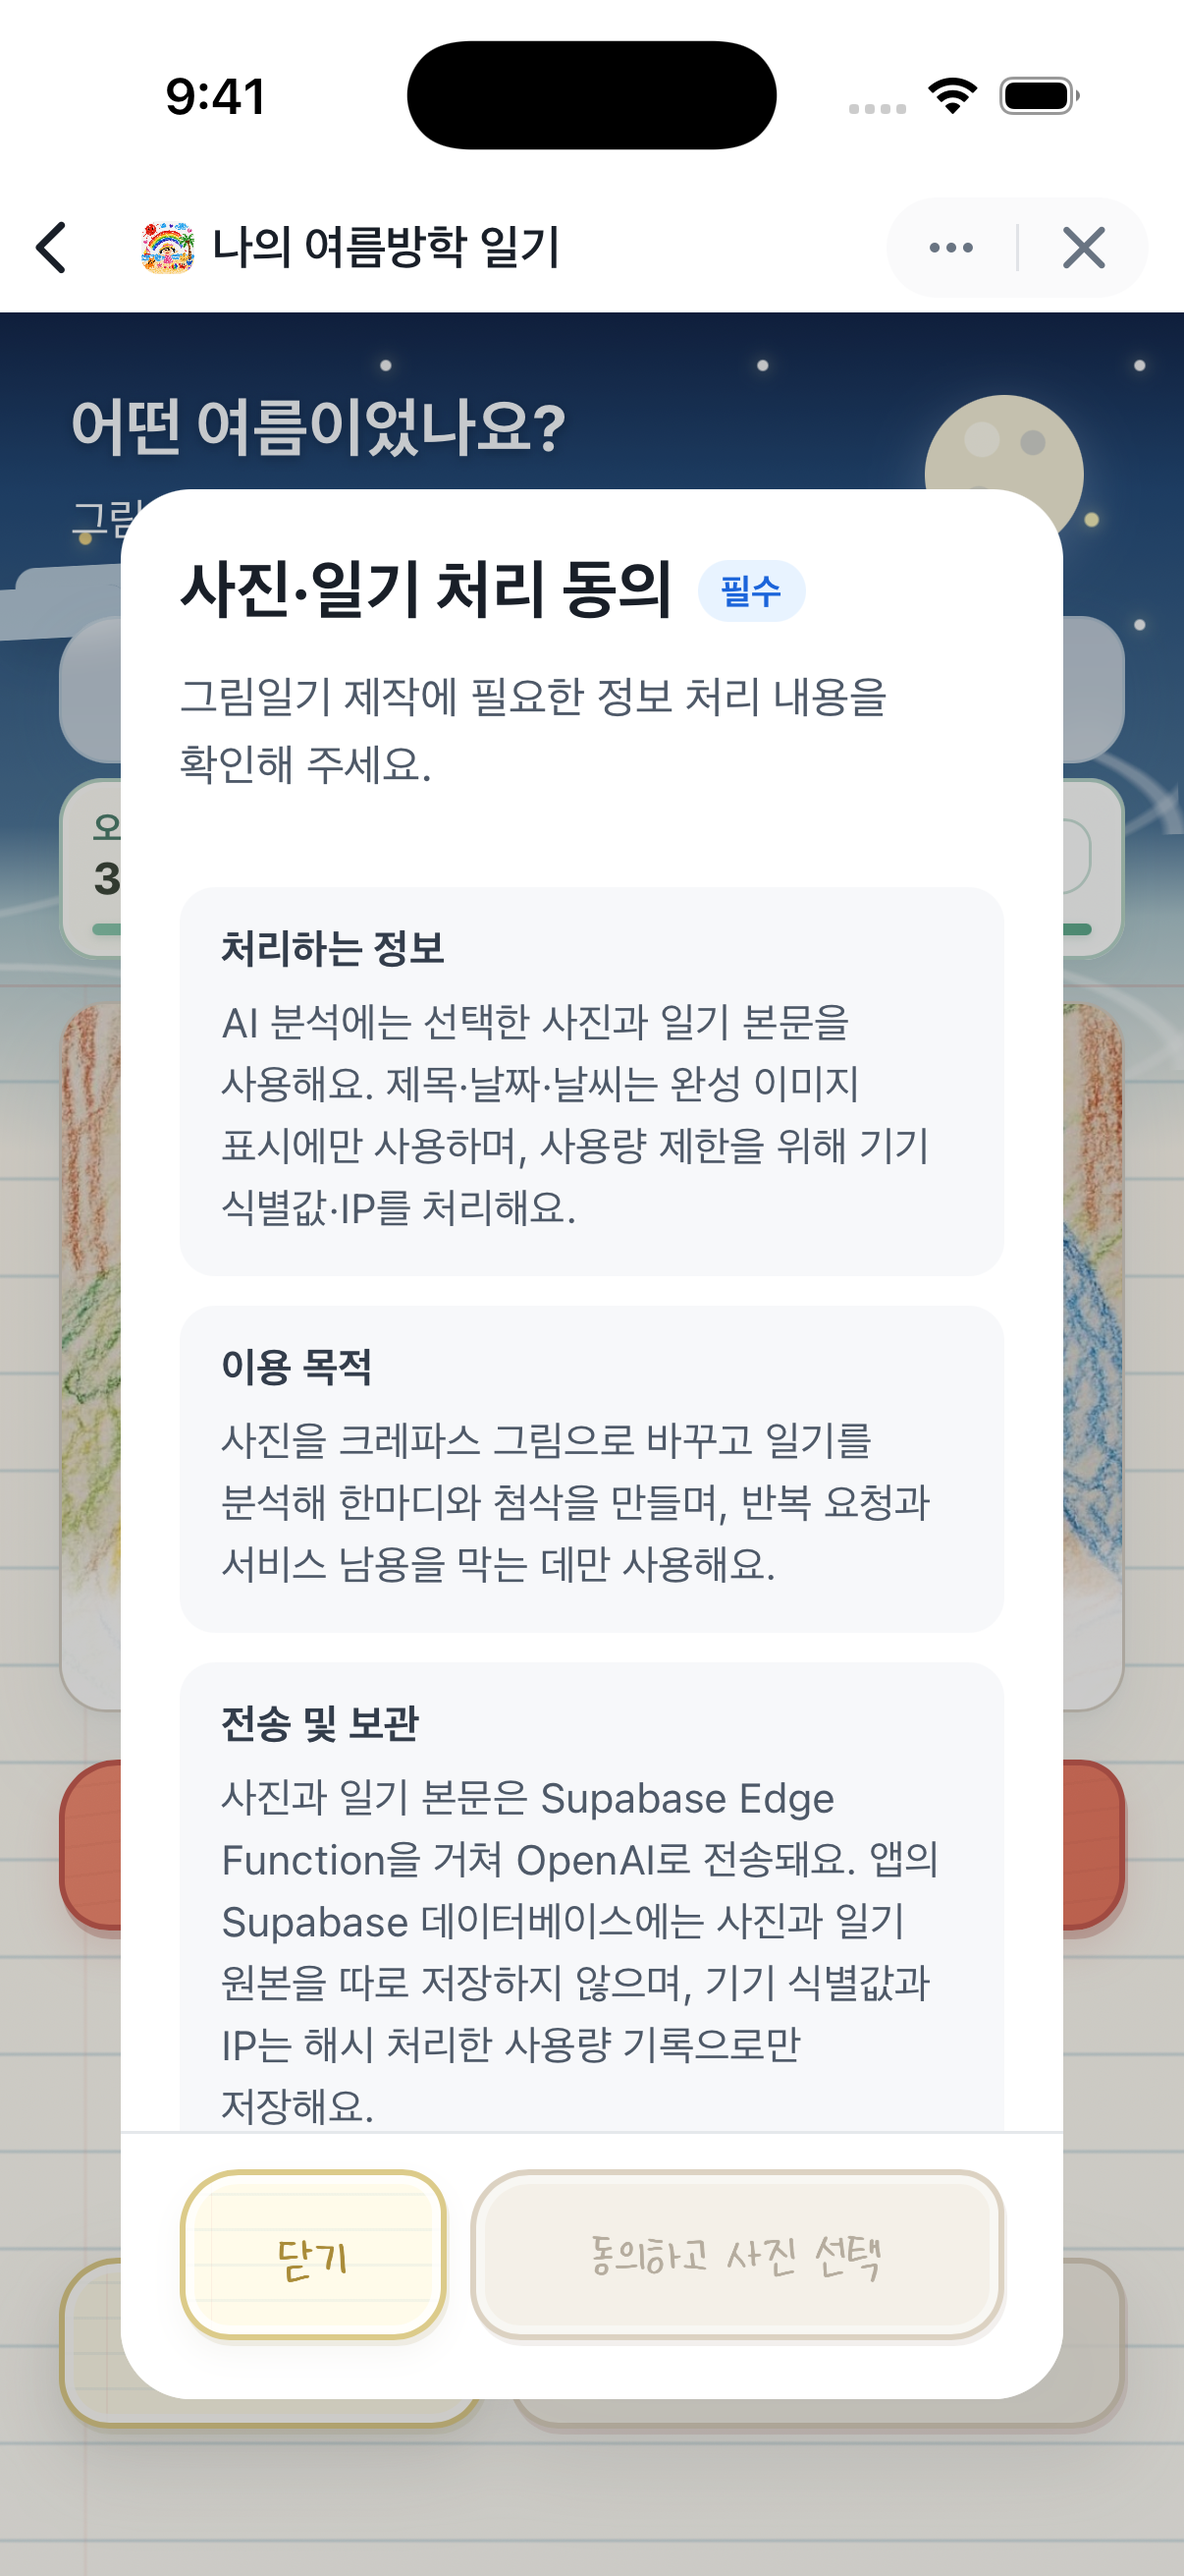
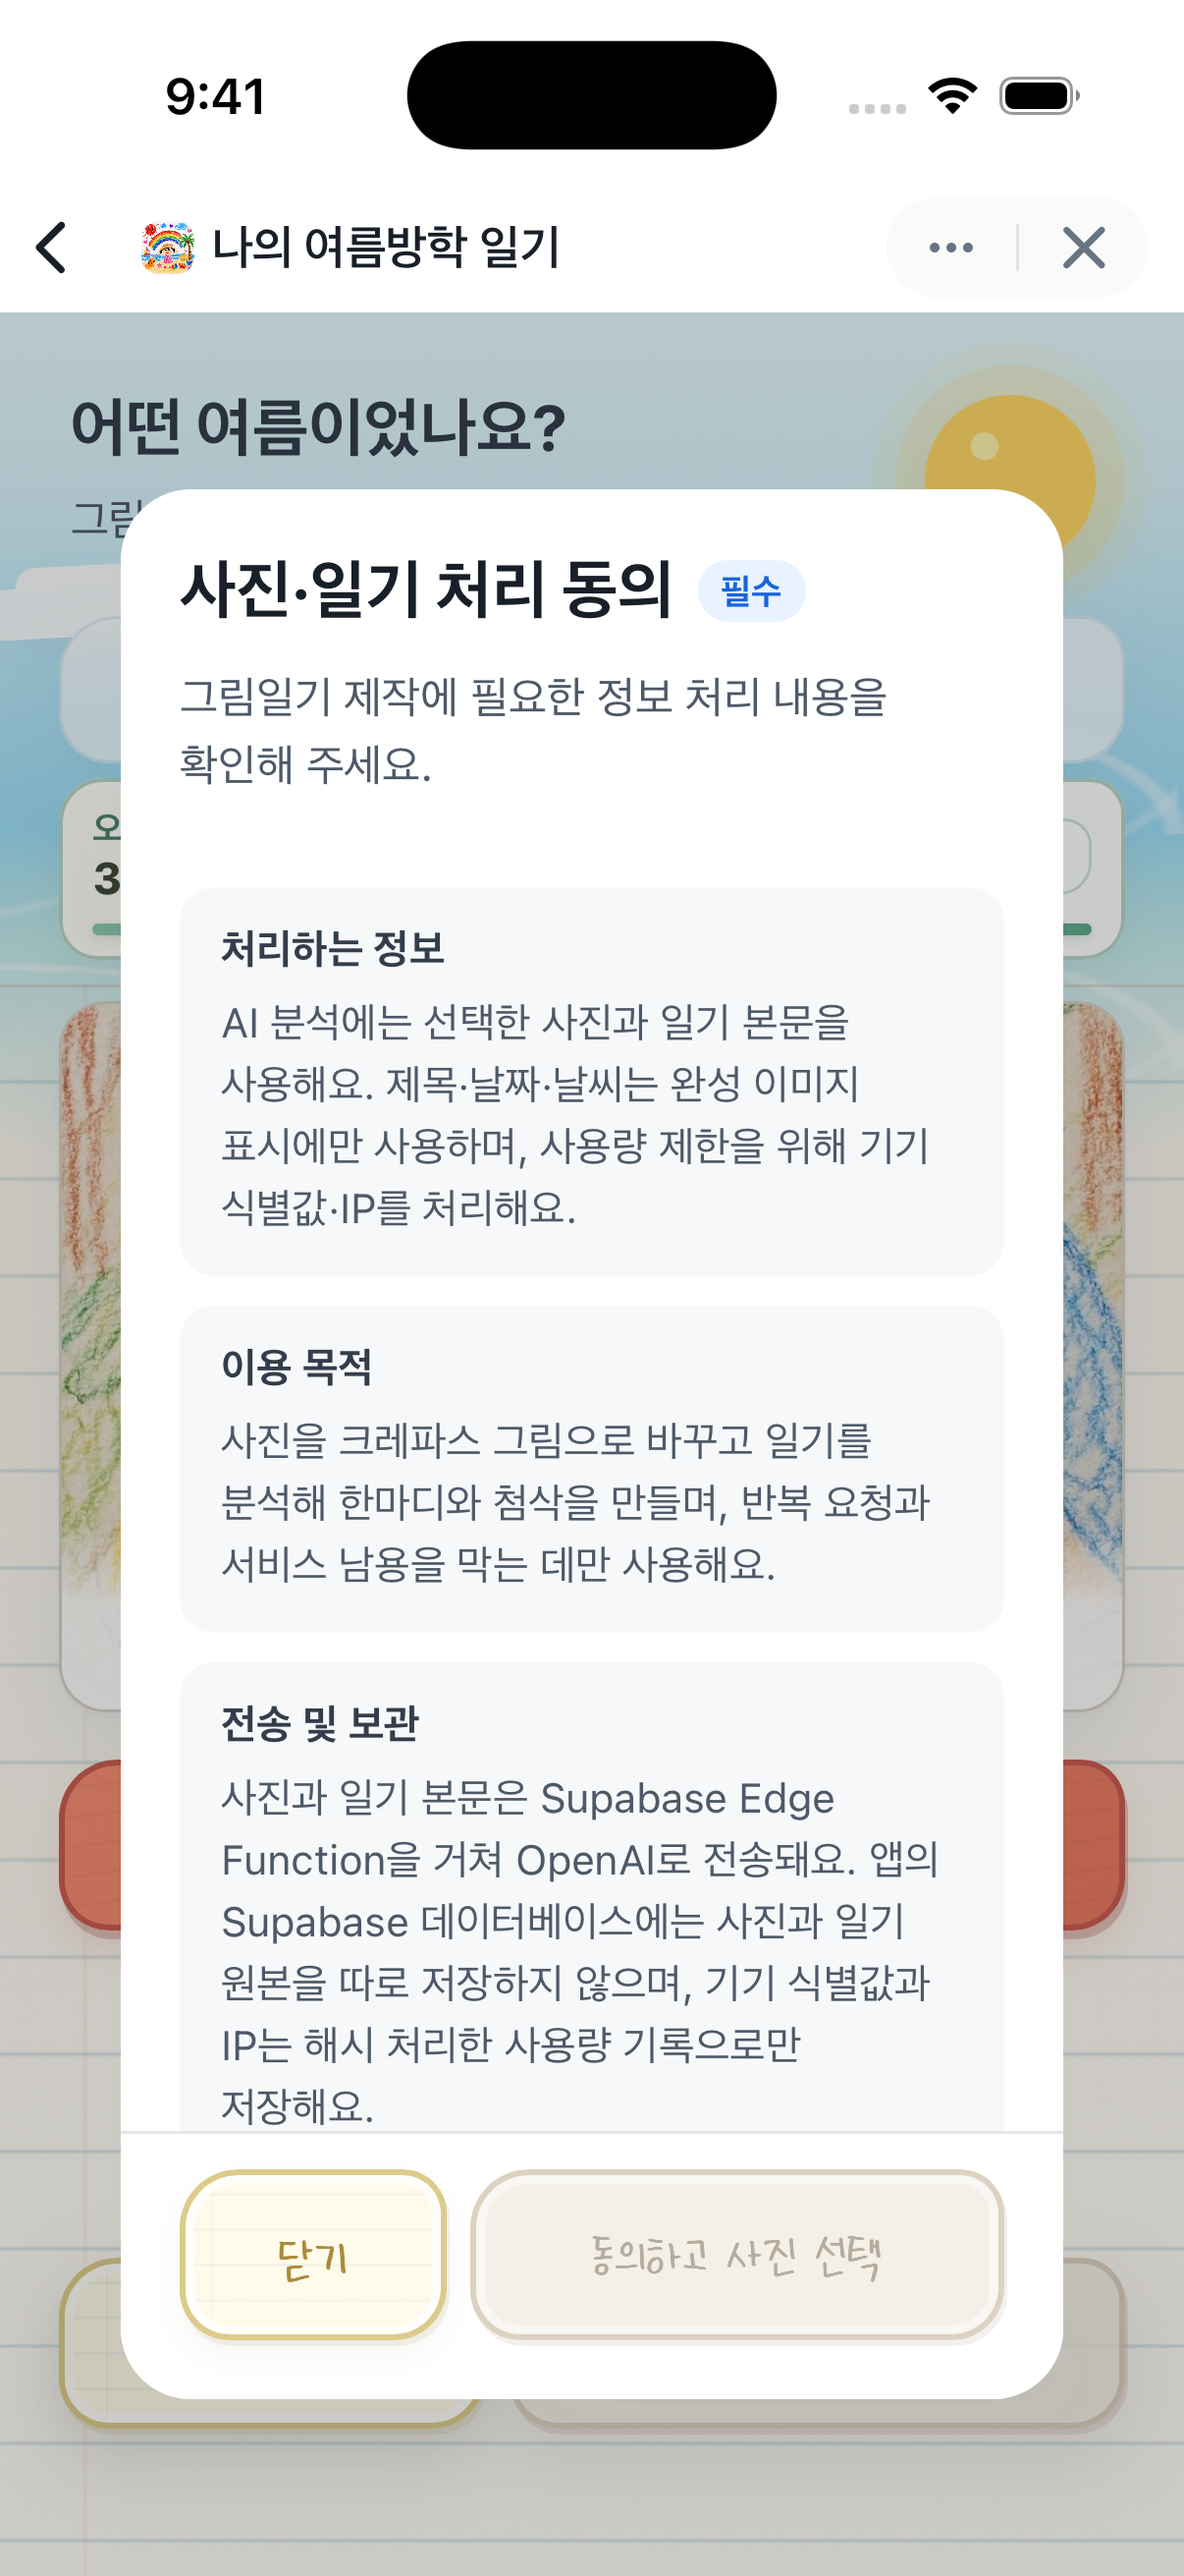
docs: 사진 교체 및 README 개선

Changed region(s): [[0.0, 0.1236, 1.0, 0.3707]]

diff --git a/README.md b/README.md
@@ -12,7 +12,7 @@
 
 ## 동작 화면
 
-아래 화면은 온보딩부터 사진 동의·자르기, 일기 작성과 AI 검사, 완성 후 기기 보관·공유, 일기 달력 재열람까지 현재 앱의 핵심 흐름을 보여줍니다. 완성 일기는 저장 직후 달력에 자동 보관되고, 같은 날짜의 여러 기록은 상세 뷰어에서 넘겨 볼 수 있습니다.
+아래 화면은 온보딩부터 사진 동의·자르기, 일기 작성과 AI 검사, 완성 후 기기 보관·공유, 일기 달력 재열람과 최종 결과물까지 현재 앱의 핵심 흐름을 보여줍니다. 완성 일기는 저장 직후 달력에 자동 보관되고, 같은 날짜의 여러 기록은 상세 뷰어에서 넘겨 볼 수 있습니다.
 
 <table>
   <tr>
@@ -75,29 +75,19 @@
       <sub>월을 이동하고 완성한 날짜의 도장을 눌러 저장된 일기를 다시 여는 화면</sub>
     </td>
   </tr>
+  <tr>
+    <td align="center" width="50%">
+      <strong>11. 밤·천둥번개 테마</strong><br /><br />
+      <img src="./docs/screenshots/11-weather-background.png" width="300" alt="밤 테마와 천둥번개 날씨가 적용된 그림일기 작성 화면" /><br /><br />
+      <sub>일기 쓰기에서 밤 테마와 천둥번개 날씨를 선택해 배경이 바뀐 화면</sub>
+    </td>
+    <td align="center" width="50%">
+      <strong>12. 최종 그림일기 결과물</strong><br /><br />
+      <img src="./docs/screenshots/12-final-diary-result.png" width="300" alt="사진과 일기, 첨삭 결과가 합성된 최종 그림일기 JPEG" /><br /><br />
+      <sub>사진·본문·첨삭·선생님 한마디·도장이 한 장으로 합성된 1080×1350 JPEG 결과물</sub>
+    </td>
+  </tr>
 </table>
-
-### 최종 결과물
-
-화면 흐름과 별도로, 사진·본문·첨삭·선생님 한마디·도장이 한 장으로 합성되는 1080×1350 JPEG 결과물입니다.
-
-<p align="center">
-  <img src="./docs/screenshots/final-diary-result.png" width="360" alt="사진과 일기, 첨삭 결과가 합성된 최종 그림일기 JPEG" />
-</p>
-
-### 추가 동작 화면 확장 영역
-
-현재 README에는 새로 전달된 10개 화면으로 정상 흐름과 날짜별 저장 한도까지 배치했습니다. 아래 파일명은 다음 캡처를 추가할 수 있도록 비워 둔 확장 슬롯입니다. 캡처가 준비되면 `docs/screenshots/`에 넣고 위 갤러리에 2열 행을 추가하면 됩니다.
-
-| 우선순위 | 예약 파일명                        | 추천 화면           | 보여줄 기능                                 |
-| -------- | ---------------------------------- | ------------------- | ------------------------------------------- |
-| 1        | `11-photo-crop.png`                | 사진 영역 선택      | 세로·가로 사진의 3:2 자르기, 이동·확대·회전 |
-| 2        | `12-ai-error-retry.png`            | AI 검사 오류·재시도 | 오류 원인, 원본 사진 fallback, 선택 재시도  |
-| 3        | `13-diary-delete-confirmation.png` | 저장 일기 삭제 확인 | 날짜별 기록 관리와 안전한 삭제              |
-| 4        | `14-ai-quota-exhausted.png`        | AI 검사 기회 소진   | 3회 소진 안내와 원본 기반 미리보기          |
-| 5        | `15-night-weather-background.png`  | 밤·날씨 배경 변형   | 밤, 비·천둥번개 등 작성 화면의 시각 변화    |
-
-<!-- 확장 캡처를 추가할 때는 docs/screenshots/에 파일을 넣고 위 예약표와 동작 화면 갤러리를 함께 갱신합니다. -->
 
 ## 주요 기능
 
